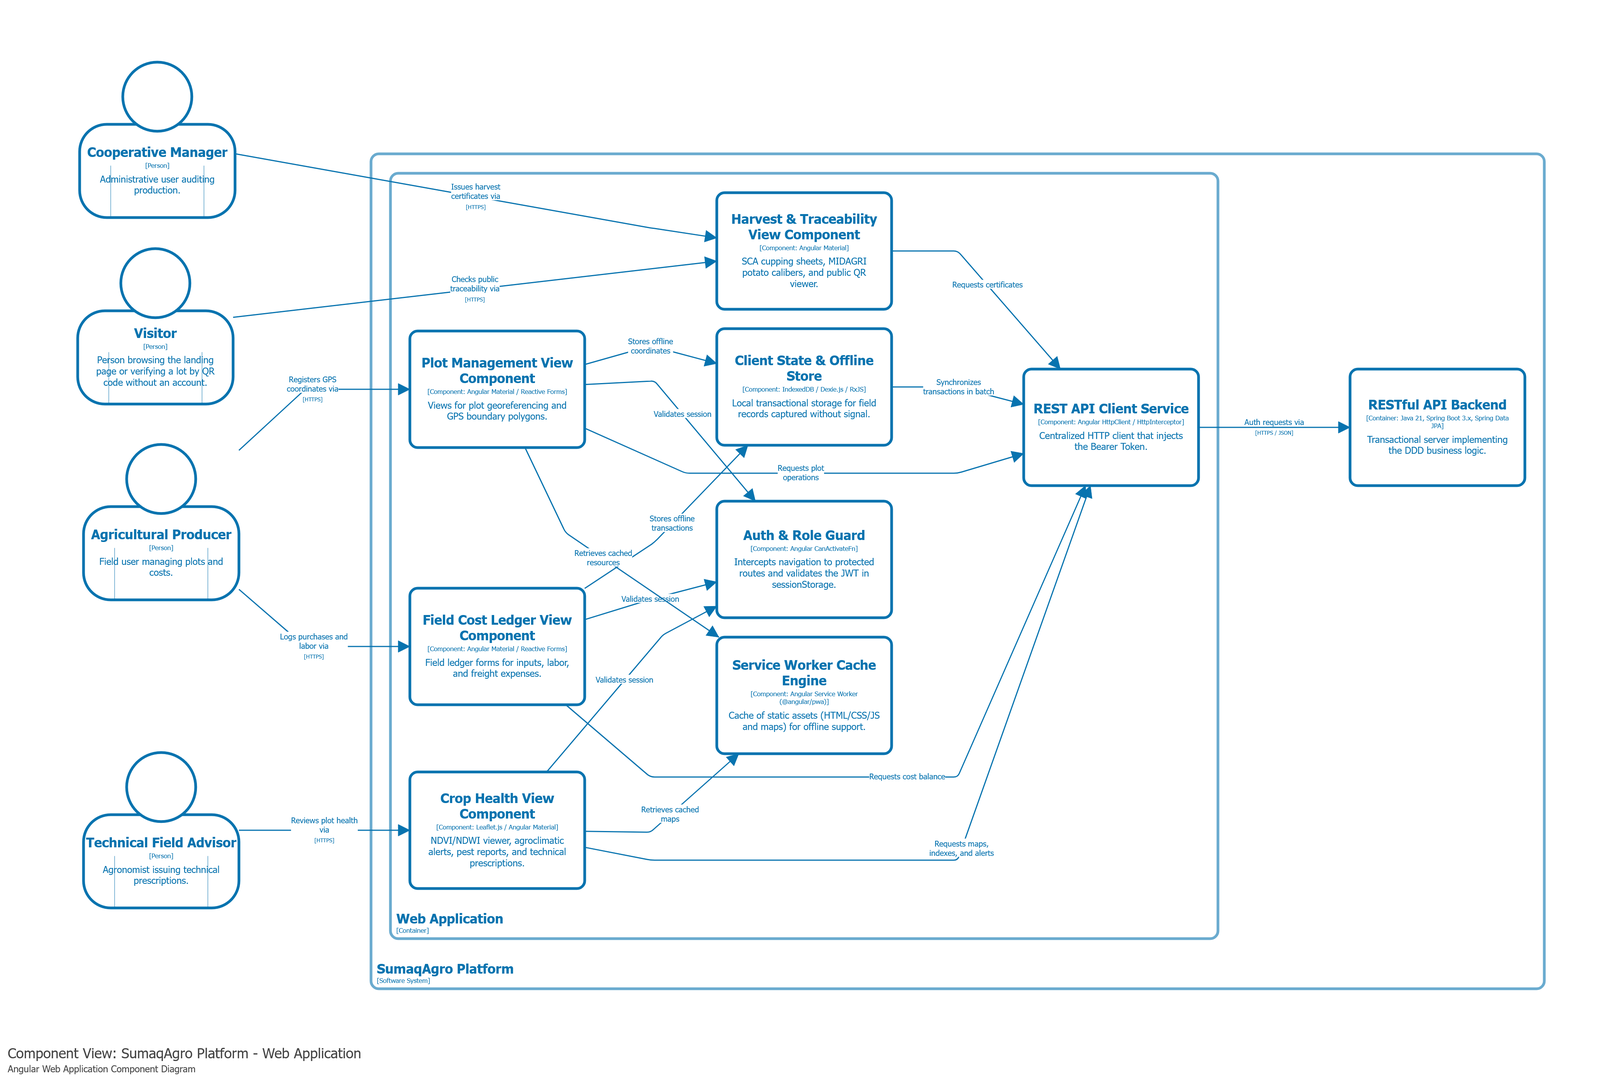
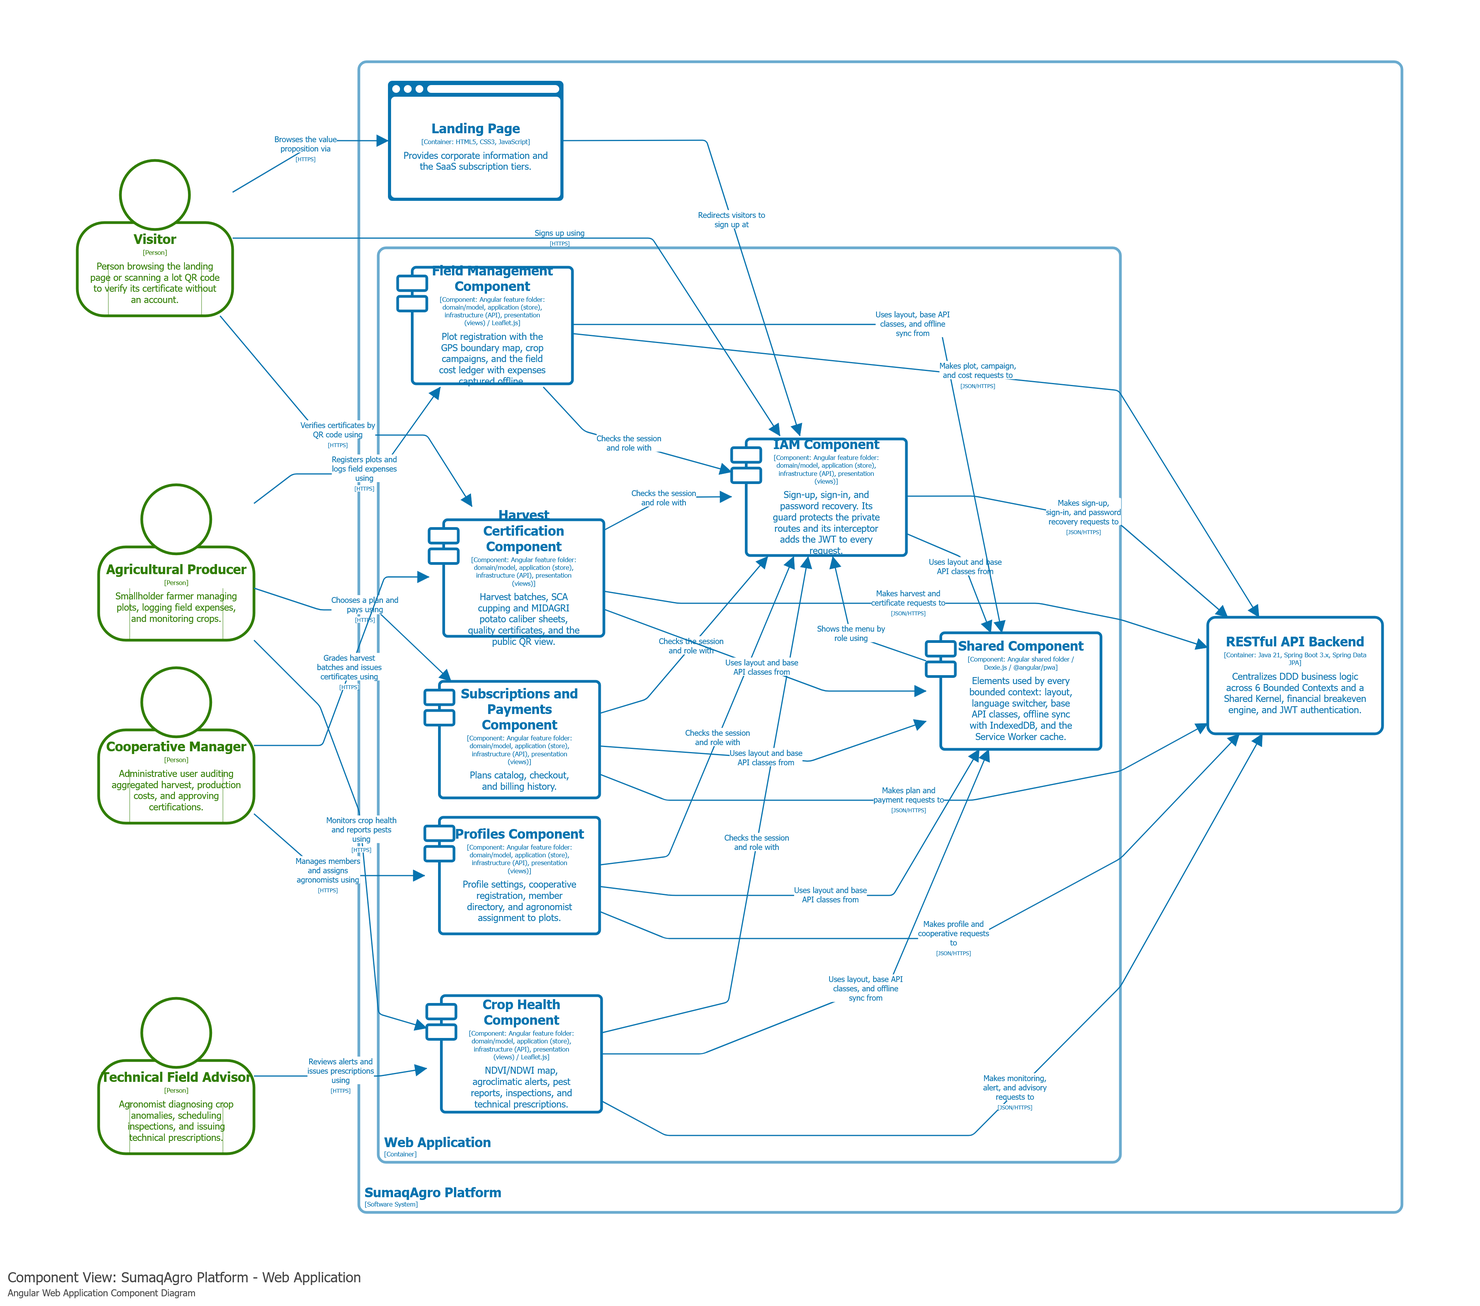
docs(cap4): update c4 component diagrams by bounded context and description

diff --git a/report/40-chapter-4-design.md b/report/40-chapter-4-design.md
@@ -1588,26 +1588,29 @@ En esta sección se presenta y describe el Diagrama de Contenedores (Nivel 2 del
 
 #### Asignación de Responsabilidades y Decisiones Tecnológicas
 
-La topología de ejecución del sistema está conformada por cuatro contenedores independientes:
+La topología de ejecución del sistema está conformada por cinco contenedores:
+
+* **Static Content Container:**
+  Carpeta con los archivos compilados de la Web Application (HTML, CSS, JavaScript e imágenes), publicada en Cloudflare Pages. Desde aquí el navegador del productor, del directivo y del agrónomo descarga la aplicación Angular. El visitante también la usa para abrir la vista pública del certificado al escanear un código QR.
 
 * **Landing Page Container:**
-  Sitio web público estático desarrollado con HTML5, CSS3 y JavaScript vanilla, alojado en un servicio cloud de distribución estática. Diseñado con una carga ligera para garantizar un rendimiento óptimo en terminales móviles bajo redes rurales 3G/4G. Su propósito es exponer la propuesta de valor del producto, presentar los planes de suscripción comercial (Semilla, Cooperativa Pro y Asesor Técnico) y canalizar prospectos comerciales hacia el backend mediante llamadas asíncronas HTTPS/JSON.
+  Sitio web público estático desarrollado con HTML5, CSS3 y JavaScript vanilla, alojado en un servicio cloud de distribución estática. Diseñado con una carga ligera para garantizar un rendimiento óptimo en terminales móviles bajo redes rurales 3G/4G. Su propósito es exponer la propuesta de valor del producto, presentar los planes de suscripción comercial (Semilla, Cooperativa Pro y Asesor Técnico) y llevar al visitante al registro de la Web Application. No se comunica con el backend: es un sitio estático.
 
 * **Web Application Container (Single Page Application - SPA):**
-  Aplicación web cliente desarrollada sobre el framework Angular 18, utilizando TypeScript y la biblioteca Angular Material. Provee una interfaz reactiva y accesible tanto para productores de campo como para administradores de cooperativas e ingenieros agrónomos. Integra capacidades de almacenamiento local mediante *Service Workers* e *IndexedDB*, lo que permite soportar operaciones en modo desconectado (*offline-first*) para el registro de jornales, compras e insumos en predios rurales sin cobertura de datos móvil, sincronizando la información automáticamente contra la API REST al recuperar la conexión a internet. Asimismo, aloja el visor público interactivo que permite auditar las credenciales y trazabilidad de los lotes cuando un visitante escanea el código QR impreso.
+  Aplicación web cliente desarrollada sobre el framework Angular 18, utilizando TypeScript y la biblioteca Angular Material. Provee una interfaz reactiva y accesible tanto para productores de campo como para administradores de cooperativas e ingenieros agrónomos. Integra capacidades de almacenamiento local mediante *Service Workers* e *IndexedDB*, lo que permite soportar operaciones en modo desconectado (*offline-first*) para el registro de gastos de campo y de reportes de plagas en predios rurales sin cobertura de datos móvil, sincronizando la información automáticamente contra la API REST al recuperar la conexión a internet. Asimismo, aloja el visor público interactivo que permite auditar las credenciales y trazabilidad de los lotes cuando un visitante escanea el código QR impreso.
 
 * **RESTful API Backend Container:**
   Servidor de aplicaciones distribuido implementado en Java 21 utilizando el framework Spring Boot 3.x (Spring MVC, Spring Security y Spring Data JPA). Representa el núcleo transaccional del sistema y aloja la lógica de negocio basada en DDD para los 6 Bounded Contexts identificados y el Shared Kernel que todos reutilizan. Sus responsabilidades abarcan la emisión y validación de tokens criptográficos JWT para el control de accesos, el cómputo de las matrices financieras de costo unitario y punto de equilibrio rural, el procesamiento de las imágenes e índices satelitales y la exposición de endpoints documentados formalmente bajo OpenAPI 3.0 (Swagger UI).
 
-* **Database Engine Container:**
-  Motor relacional MySQL 8.0 configurado como la unidad de persistencia de datos. Almacena las tablas normalizadas del dominio asegurando transacciones atómicas bajo el estándar ACID, soporte de integridad referencial mediante claves foráneas y compatibilidad con tipos de datos espaciales para el resguardo de las geometrías perimetrales de las parcelas agrícolas.
+* **Database Container:**
+  Base de datos relacional MySQL 8.0 (`sumaqagro_db`). Guarda en una sola base las tablas de los 6 bounded contexts, con transacciones ACID y claves primarias y foráneas que mantienen la integridad referencial. Los vértices del polígono de cada parcela se guardan como pares de latitud y longitud.
 
 #### Protocolos de Interoperabilidad y Comunicación
 
-* **Acceso de Usuarios:** Los usuarios finales interactúan con los contenedores web (*Landing Page* y *Web Application*) mediante peticiones seguras sobre el protocolo HTTPS.
-* **Cliente Web a Backend:** La Single Page Application consume la lógica de negocio y envía datos locales sincronizados mediante llamadas asíncronas RESTful sobre HTTPS, transmitiendo datos estructurados en formato JSON protegidos con tokens de autorización Bearer JWT.
-* **Backend a Base de Datos:** Las operaciones transaccionales y de persistencia de los agregados se ejecutan directamente a través de una conexión TCP protegida sobre el puerto 3306 mediante el controlador JDBC de MySQL.
-* **Backend a Servicios Externos:** Las consultas salientes hacia AgroMonitoring API, Twilio Gateway y Niubiz se realizan mediante assemblers desacoplados bajo peticiones seguras HTTPS/JSON. Los correos de recuperación de contraseña e invitación de agrónomos se envían a Brevo mediante SMTP o HTTPS.
+* **Acceso de Usuarios:** Los usuarios entran por HTTPS. El visitante navega la *Landing Page*, y desde ella pasa al registro de la *Web Application*. Los usuarios registrados cargan la *Web Application* desde el *Static Content*.
+* **Cliente Web a Backend:** La Web Application llama a los endpoints REST del backend con JSON sobre HTTPS, enviando el token Bearer JWT en cada petición. Por este mismo canal sincroniza los datos guardados sin conexión.
+* **Backend a Base de Datos:** El backend lee y escribe los agregados mediante el controlador JDBC de MySQL, sobre el puerto 3306.
+* **Backend a Servicios Externos:** El backend se comunica con AgroMonitoring API, Twilio y Niubiz con JSON sobre HTTPS. Niubiz, además, confirma cada pago llamando a un webhook del backend. Los correos de recuperación de contraseña e invitación de agrónomos se envían a Brevo mediante SMTP.
 
 ---
 
@@ -1626,71 +1629,65 @@ El contenedor de la Landing Page descompone la estructura del sitio web estátic
 ![C4 Model - Diagrama de Componentes de la Landing Page (Nivel 3)](assets/img/chapter-4/c4/c4-components-landing-diagram.png)
 
 ##### Desglose de Componentes de la Landing Page:
-* **`Navigation & Hero Component`:** Bloque estructural desarrollado con HTML5 semántico y maquetado responsivo mediante CSS3 Flexbox. Administra la barra de navegación superior, la identidad visual corporativa de SumaqAgro, la propuesta de valor agroclimática orientada a café de especialidad y papa andina, y el llamado a la acción (CTA) que conduce al formulario de registro y demostración.
+* **`Navigation & Hero Component`:** Bloque estructural desarrollado con HTML5 semántico y maquetado responsivo mediante CSS3 Flexbox. Administra la barra de navegación superior, la identidad visual corporativa de SumaqAgro, la propuesta de valor agroclimática orientada a café de especialidad y papa andina, y el llamado a la acción (CTA) que lleva al visitante al registro de la Web Application.
 * **`Pricing & Plans Catalog Component`:** Componente visual maquetado mediante CSS3 Grid. Presenta la matriz comparativa de los planes de suscripción comercial SaaS: el plan *Semilla* (gratuito para pequeños productores familiares), el plan *Cooperativa Pro* (para gremios con monitoreo consolidado de socios) y el plan *Asesor Técnico* (para agrónomos independientes con carteras de clientes).
-* **`Lead Capture Form Component`:** Módulo interactivo implementado en JavaScript vanilla. Intercepta los eventos de ingreso de datos para solicitudes de contacto y demostraciones técnicas, ejecutando validaciones sintácticas del lado del cliente (formato regex de correo electrónico, longitud de número celular y campos obligatorios) para prevenir envíos incompletos a la red.
-* **`Landing HTTP Client`:** Componente de comunicación asíncrona construido sobre la API nativa `Fetch` de JavaScript. Serializa las entradas del formulario hacia una carga útil JSON y despacha la petición POST sobre HTTPS hacia el endpoint `/api/v1/users` del backend transaccional, administrando los estados visuales de confirmación o alerta ante incidencias de conectividad.
 
 ---
 
 #### 4.6.4.2. Web Application Container Components Diagram (Angular SPA)
 
-El contenedor de la aplicación cliente SPA, implementado sobre el framework **Angular 18**, descompone sus módulos para brindar una experiencia de usuario interactiva y garantizar la persistencia local de datos en campo mediante capacidades desconectadas (*offline-first*).
+La Web Application, construida con **Angular 18**, se organiza por bounded context siguiendo DDD. Cada componente del diagrama es una carpeta de Angular dentro de `src/app` y todas tienen las mismas capas: `domain/model` (entidades), `application` (store con el estado), `infrastructure` (llamadas a la API) y `presentation` (vistas). Además existe una carpeta `shared` con lo que usan todos los contextos.
 
 ![C4 Model - Diagrama de Componentes de la Web Application (Nivel 3)](assets/img/chapter-4/c4/c4-components-webapp-diagram.png)
 
 ##### Desglose de Componentes de la Web Application:
-* **`Auth & Role Guard`:** Guardia funcional de enrutamiento (`CanActivateFn`) de Angular. Intercepta la navegación hacia rutas protegidas comprobando la vigencia del token JWT almacenado en `sessionStorage`, aplicando el control de acceso basado en roles (RBAC) para productores, directivos y agrónomos.
-* **`Plot Management View Component`:** Interfaz gráfica desarrollada con Angular Material y Formularios Reactivos (`ReactiveFormsModule`). Permite la georreferenciación de predios, la captura interactiva de vértices perimetrales GPS y el registro botánico y fenológico de las campañas agrícolas.
-* **`Crop Health View Component`:** Componente analítico que integra la biblioteca Leaflet.js con Angular. Renderiza los mapas satelitales con los índices NDVI y NDWI, las alertas agroclimáticas con su plan de acción, los reportes de plagas con foto y las recetas técnicas emitidas por el agrónomo.
-* **`Field Cost Ledger View Component`:** Módulo de captura contable rural que provee formularios reactivos para el asiento inmediato de compras de fertilizantes, jornales diarios y fletes, alimentando los paneles de estimación de costos unitarios y punto de equilibrio.
-* **`Harvest & Traceability View Component`:** Vistas de calificación física de calibres de tubérculo (norma técnica MIDAGRI) y protocolos de catación sensorial de café (estándar SCA). Incluye el visor público accesible mediante el escaneo del código QR para la auditoría de procedencia de los lotes.
-* **`Client State & Offline Store`:** Capa de almacenamiento transaccional local implementada con *IndexedDB* (mediante Dexie.js) coordinada con estados reactivos basados en `BehaviorSubject` de RxJS. Retiene las operaciones efectuadas en parcelas sin señal de red celular y orquesta la sincronización automática diferida en lote al detectar conectividad a internet.
-* **`Service Worker Cache Engine`:** Módulo de Progressive Web App provisto por `@angular/pwa`. Almacena en caché los artefactos estáticos compilados (HTML, CSS, JavaScript e iconografía vectorial), asegurando la operatividad continua de la interfaz web en entornos rurales sin conexión.
-* **`REST API Client Service`:** Servicio Angular centralizado (`@Injectable`) que encapsula la comunicación HTTPS con el backend mediante `HttpClient`. Emplea un `HttpInterceptor` que inyecta automáticamente el encabezado `Authorization: Bearer <JWT>` en cada solicitud saliente y unifica la gestión de excepciones HTTP de red.
+* **`IAM Component`:** Formularios de registro, inicio de sesión y recuperación de contraseña. Contiene el *guard* que protege las rutas privadas según la sesión y el rol, y el *interceptor* que agrega el token JWT a cada petición.
+* **`Profiles Component`:** Configuración del perfil, registro de la cooperativa, padrón de socios y asignación de agrónomos a las parcelas.
+* **`Subscriptions and Payments Component`:** Catálogo de planes, pago (*checkout*) e historial de cobros.
+* **`Field Management Component`:** Registro de parcelas con el mapa para marcar el polígono GPS (Leaflet.js), campañas agrícolas y bitácora de costos, donde los gastos se pueden registrar sin conexión.
+* **`Crop Health Component`:** Mapa con los índices NDVI y NDWI (Leaflet.js), alertas agroclimáticas, reportes de plagas, inspecciones y recetas técnicas.
+* **`Harvest Certification Component`:** Lotes de acopio, fichas de catación SCA para café y de calibres MIDAGRI para papa, certificados de calidad y la vista pública que se abre al escanear el código QR.
+* **`Shared Component`:** Lo que usan todos los contextos: el *layout* con el menú, el selector de idioma, las clases base para llamar a la API, la sincronización sin conexión con IndexedDB (Dexie.js) y la caché del Service Worker (`@angular/pwa`).
+
+##### Relaciones entre Componentes:
+* **Usuarios:** el productor usa Field Management, Crop Health y Subscriptions and Payments; el directivo usa Profiles y Harvest Certification; el agrónomo usa Crop Health; y el visitante se registra en IAM o verifica un certificado en Harvest Certification. La Landing Page envía al visitante al registro en IAM.
+* **IAM:** los otros cinco componentes revisan la sesión y el rol del usuario con el *guard* de IAM antes de abrir sus rutas. Shared también lee el rol desde IAM para mostrar el menú que le corresponde a cada usuario.
+* **Shared:** todos los componentes usan su *layout* y sus clases base de API. Field Management y Crop Health, además, usan su sincronización sin conexión.
+* **RESTful API:** cada componente llama solo al componente de su mismo bounded context en el backend, con JSON sobre HTTPS.
 
 ---
 
 #### 4.6.4.3. RESTful API Backend Container Components Diagram (Spring Boot)
 
-El contenedor transaccional de backend, desarrollado en **Java 21 con Spring Boot 3.x**, implementa una arquitectura en capas desacopladas orientada al dominio (*Layered Architecture / DDD*), gobernando las reglas de negocio de los 6 Bounded Contexts y agregados de la solución, junto con el Shared Kernel que todos reutilizan.
+El backend, desarrollado en **Java 21 con Spring Boot 3.x**, también se organiza por bounded context. Cada componente del diagrama es un bounded context y contiene sus propios controllers REST, servicios de Spring y repositorios de Spring Data JPA. El Shared Kernel agrupa lo que todos comparten.
 
 ![C4 Model - Diagrama de Componentes del API Backend (Nivel 3)](assets/img/chapter-4/c4/c4-components-backend-diagram.png)
 
-##### Desglose de Componentes del Backend por Capa Técnica:
+##### Desglose de Componentes del Backend:
+* **`IAM Component`:** Registro, inicio de sesión, emisión del token JWT, roles y recuperación de contraseña.
+* **`Profiles Component`:** Perfiles de usuario, cooperativas, padrón de socios e invitación y asignación de agrónomos a las parcelas.
+* **`Subscriptions and Payments Component`:** Planes (Semilla, Cooperativa Pro y Asesor Técnico), cobros y cupo de parcelas de cada plan.
+* **`Field Management Component`:** Parcelas con su polígono GPS, campañas agrícolas, bitácora de costos y precio de equilibrio. También recibe los gastos registrados sin conexión.
+* **`Crop Health Component`:** Índices NDVI y NDWI, pronóstico del clima, alertas agroclimáticas, reportes de plagas, inspecciones y recetas técnicas.
+* **`Harvest Certification Component`:** Lotes de acopio, calificación de calibres de papa y catación de café, y emisión de certificados de calidad con código QR.
+* **`Shared Kernel Component`:** Clases base, value objects compartidos, manejo de excepciones, configuración de OpenAPI y el envío de notificaciones que usan los demás contextos.
 
-* **Capa de Controladores REST (Inbound Controllers):**
-  Controladores anotados con `@RestController` que exponen los endpoints del sistema sobre HTTPS/JSON, interceptan las peticiones desde el cliente Angular, validan los DTOs de entrada mediante Bean Validation (`@Valid`) y delegan la ejecución hacia los servicios de aplicación:
-  * `IamController`: Expone `/api/v1/auth` y `/api/v1/users` para registro, inicio de sesión seguro y emisión de JWT.
-  * `ProfilesController`: Expone `/api/v1/profiles` y `/api/v1/cooperatives` para datos de contacto, registro de cooperativas, padrón de socios y asignación de agrónomos.
-  * `SubscriptionController`: Expone `/api/v1/subscriptions` para consulta de membresías y confirmación transaccional de planes comerciales.
-  * `FieldManagementController`: Expone `/api/v1/plots`, `/api/v1/campaigns` y `/api/v1/finances` para catastro de coordenadas GPS, campañas agrícolas, bitácora financiera, sincronización diferida de asientos y cálculo de punto de equilibrio.
-  * `CropHealthController`: Expone `/api/v1/monitoring`, `/api/v1/alerts` y `/api/v1/advisory` para mapas satelitales, series NDVI/NDWI, alertas agroclimáticas, reportes de plagas y recetas agronómicas.
-  * `HarvestCertificationController`: Expone `/api/v1/harvests` y `/api/v1/certificates` para pesaje de acopio, catación SCA, graduación de calibres y certificados.
-
-* **Capa de Servicios de Aplicación (Domain Application Services):**
-  Servicios anotados con `@Service` que orquestan las transacciones atómicas, validan las reglas de invariante de cada Agregado y coordinan las llamadas hacia los assemblers:
-  * `UserService`: Administra el ciclo de vida del agregado `User`, gestionando el hashing seguro de claves y la emisión de tokens JWT.
-  * `ProfilesService`: Administra los agregados `Profile`, `Cooperative` y `AgronomistAssignment`, controlando el padrón de socios y qué agrónomo supervisa cada parcela.
-  * `SubscriptionService`: Gobierna el agregado `Subscription`, controlando la vigencia de membresías y cuotas de predios asignados.
-  * `FieldManagementService`: Administra los agregados `FieldPlot`, `CropCampaign` y `CampaignLedger`, validando que los polígonos no presenten autointersecciones, que una parcela no tenga dos campañas activas y calculando el costo unitario de producción y el precio de equilibrio.
-  * `CropHealthService`: Gestiona los agregados `SatelliteObservation`, `ClimateForecast`, `AgroclimaticAlert`, `RegionalBulletin`, `PestReport`, `FieldInspection` y `TechnicalPrescription`, registrando los índices satelitales y despachando alertas preventivas de estrés foliar, estrés hídrico o heladas.
-  * `HarvestCertificationService`: Supervisa los agregados `HarvestBatch` y `QualityCertificate`, validando umbrales mínimos de calidad sensorial y física antes de autorizar la emisión de certificados.
-
-* **Capa de Assemblers de Infraestructura:**
-  Componentes de integración desacoplados anotados con `@Component` que se comunican con plataformas externas o generan documentos, y transforman esas respuestas en objetos del dominio:
-  * `NiubizClientAssembler`: Consume la API de Niubiz para el procesamiento de cobros y la facturación recurrente de las suscripciones.
-  * `AgroMonitoringClientAssembler`: Registra el polígono de cada parcela en AgroMonitoring y obtiene sus imágenes satelitales, los índices NDVI y NDWI y el pronóstico del clima.
-  * `TwilioNotificationAssembler`: Invoca la API de Twilio para remitir notificaciones prioritarias de emergencia vía SMS y WhatsApp.
-  * `BrevoEmailAssembler`: Arma los correos de recuperación de contraseña (usados por `UserService`) y de invitación de agrónomos (usados por `ProfilesService`) y los envía a través de Brevo.
-  * `PdfQrGeneratorAssembler`: Compila dinámicamente los certificados de calidad en formato PDF y codifica el código QR de verificación pública.
-
-* **Shared Kernel:**
-  Componente común que reutilizan todos los servicios. Contiene las clases base auditables (`AuditableAbstractAggregateRoot` y `AuditableModel`), los value objects compartidos, el manejo global de excepciones y la configuración de OpenAPI.
-
-* **Capa de Persistencia (Spring Data JPA Repositories):**
-  Interfaces que extienden de `JpaRepository` para mapear los agregados hacia las tablas de la base de datos MySQL 8.0 vía JDBC sobre el puerto TCP 3306:
-  * `UserRepository`, `ProfilesRepository`, `SubscriptionRepository`, `FieldManagementRepository`, `CropHealthRepository` y `HarvestCertificationRepository`.
+##### Relaciones entre Componentes:
+* **Domain events (políticas):**
+  * IAM publica `UserSignedUp` y Subscriptions and Payments asigna el plan Semilla (P1).
+  * Field Management publica `SowingDateRecorded` y Crop Health programa el monitoreo satelital (P4).
+  * Harvest Certification publica `DeliveredBatchWeighed` y Field Management registra el rendimiento real (P10).
+* **Consultas mediante ACL (facades):**
+  * Profiles asigna roles mediante IAM y valida las parcelas en Field Management.
+  * Field Management revisa el cupo de parcelas del plan en Subscriptions and Payments.
+  * Crop Health lee los polígonos de las parcelas en Field Management y busca el agrónomo asignado en Profiles.
+  * Harvest Certification valida los socios de la cooperativa en Profiles y lee el origen de la parcela en Field Management.
+* **Sistemas externos:**
+  * Subscriptions and Payments cobra con Niubiz, y Niubiz confirma cada pago llamando a un webhook.
+  * Field Management registra los polígonos de las parcelas en AgroMonitoring.
+  * Crop Health obtiene de AgroMonitoring las imágenes, los índices y el clima, y envía las alertas por SMS o WhatsApp con Twilio.
+  * IAM envía el correo de recuperación de contraseña y Profiles el de invitación al agrónomo, ambos con Brevo mediante SMTP.
+* **Shared Kernel y base de datos:** todos los componentes usan las clases base y los value objects del Shared Kernel, y leen y escriben en la base de datos MySQL mediante JDBC.
 
 ---
 
